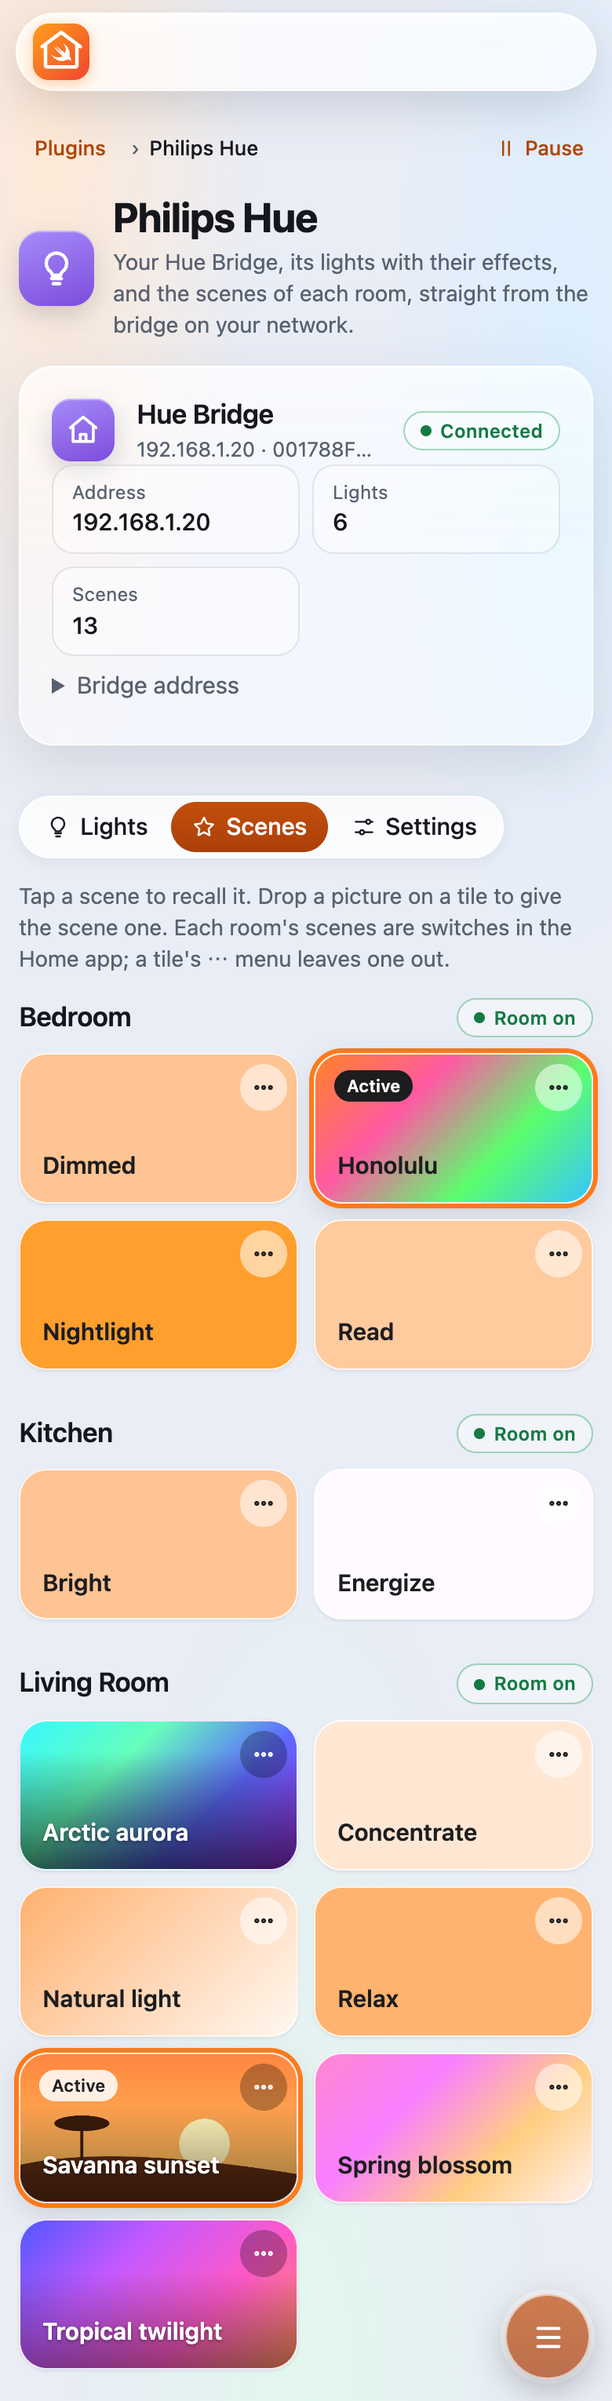
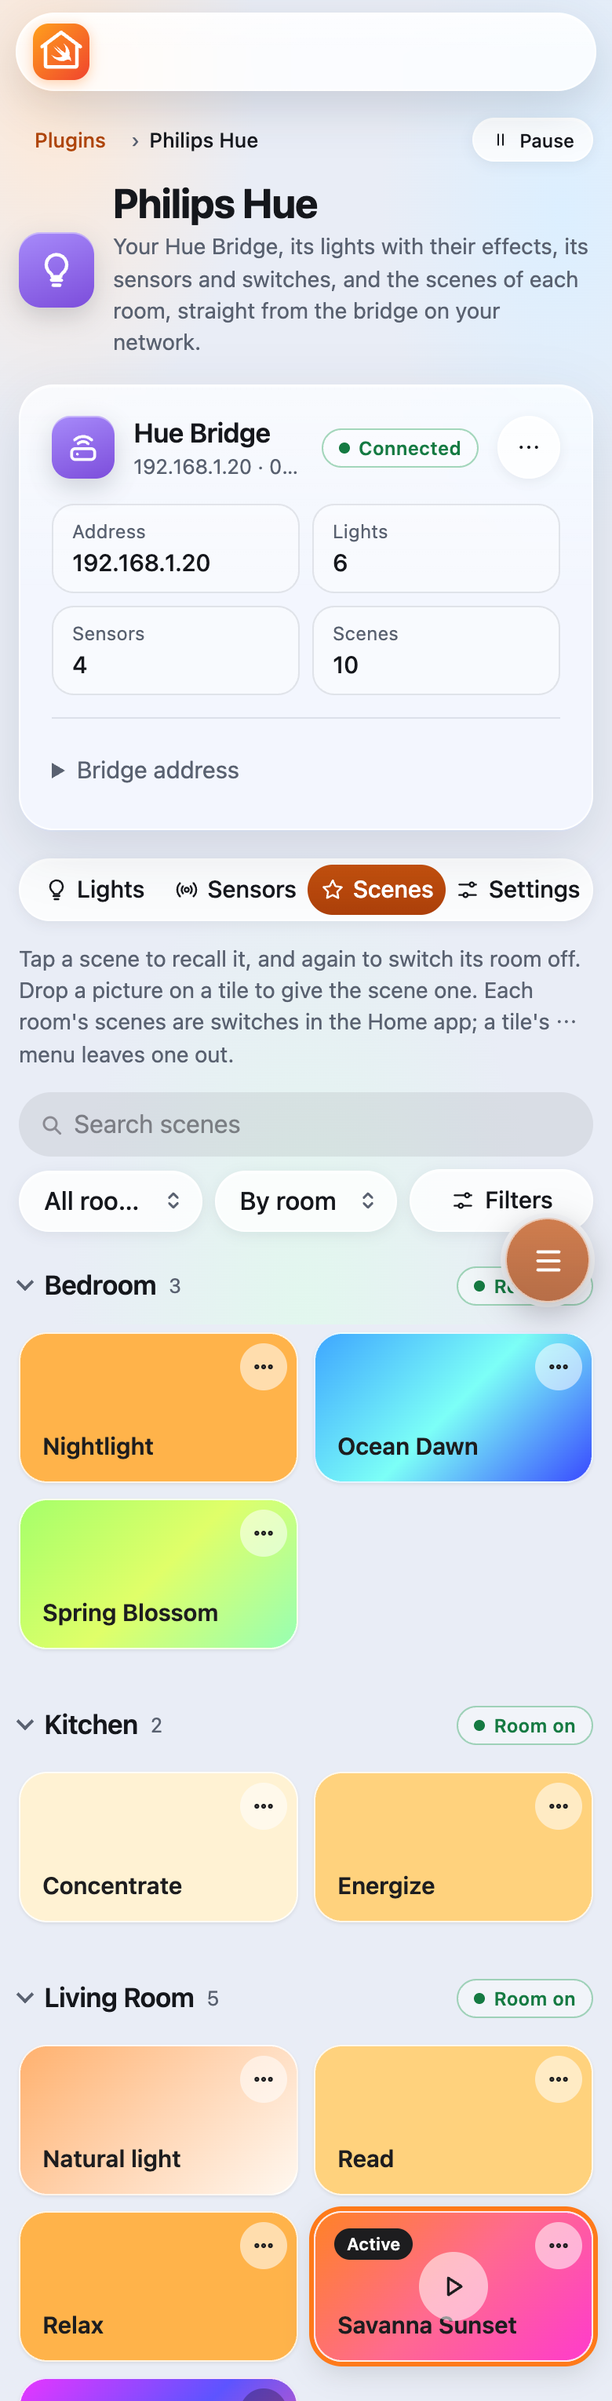
Plugin pages: screenshots from fake devices, sensors' toolbar and load race fixed
Scripts/plugin-screenshots.mjs retakes docs/images/plugins from a throwaway
bridge against a fake Hue Bridge and a fake DIRIGERA hub with demonstration
names: the Hue page's Lights, Sensors, Scenes and Settings tabs, its scenes on
a phone, and DIRIGERA's devices and scenes.

The Hue page reads its accessories again while one it lists is missing, so the
Sensors tab no longer stays empty when it opens before the bridge's first read,
and shows the sensors' toolbar; DIRIGERA's page reads again while it has fewer
accessories than groups. Both pages' descriptions name what they now show. On a
phone the plugin pages' tabs share the width, so four of them fit.

diff --git a/Plugins/PhilipsHue/Sources/WebFiles.swift b/Plugins/PhilipsHue/Sources/WebFiles.swift
@@ -102,10 +102,13 @@ h2 { margin: 0 0 10px; }
     sensorAccessories = all.filter((accessory) => accessory.id.startsWith("PhilipsHue:device:"));
   }
 
-  /// Reads the accessories again when the lights or sensors the Home app has changed.
+  /// Reads the accessories again when the lights or sensors the Home app has changed, or while fewer are published
+  /// than the bridge lists (the page opened before the plugin had added them all).
   async function loadIfChanged() {
-    const key = [...lights, ...sensors].filter((item) => !item.hidden).map((item) => item.id).sort().join(",");
-    if (key === shapeKey) return;
+    const shown = (list) => list.filter((item) => !item.hidden);
+    const key = [...shown(lights), ...shown(sensors)].map((item) => item.id).sort().join(",");
+    const missing = accessories.length < shown(lights).length || (status.sensorsOn !== false && sensorAccessories.length < shown(sensors).length);
+    if (key === shapeKey && !missing) return;
     shapeKey = key;
     await loadAccessories().catch(() => {});
   }
@@ -201,6 +204,7 @@ h2 { margin: 0 0 10px; }
     if (status.sensorsOn === false) return empty(t("Sensors and switches are off: turn them on in Settings."));
     await loadIfChanged();
     if (!sensorAccessories.length) return empty(t("The bridge has no sensors or switches yet: add them in the Hue app."));
+    sensorFinder.show(true);
     sensorFinder.draw(list, {
       countText: (shown, total) => t("{shown} of {total} sensors", { shown, total }),
       emptyText: t("No sensor matches the search and filters."), bodyClass: "wall",
@@ -549,7 +553,7 @@ HomeswiftI18n.add({
     "How often the bridge is asked for changes made in the Hue app or with a switch.": "La fréquence à laquelle le pont est interrogé sur les changements faits dans l'app Hue ou avec un interrupteur.",
     "Changes are kept once you save.": "Les modifications sont conservées une fois enregistrées.",
     "Saved. The plugin restarted with these settings.": "Enregistré. Le plugin a redémarré avec ces réglages.",
-    "Your Hue Bridge, its lights with their effects, and the scenes of each room, straight from the bridge on your network.": "Votre pont Hue, ses lampes et leurs effets, et les scènes de chaque pièce, directement depuis le pont sur votre réseau.",
+    "Your Hue Bridge, its lights with their effects, its sensors and switches, and the scenes of each room, straight from the bridge on your network.": "Votre pont Hue, ses lampes et leurs effets, ses capteurs et interrupteurs, et les scènes de chaque pièce, directement depuis le pont de votre réseau.",
     "Save Configuration": "Enregistrer la configuration",
     "an address is required": "une adresse est requise",
     "The link button was not pressed in time.": "Le bouton de liaison n'a pas été pressé à temps.",
@@ -641,7 +645,7 @@ HomeswiftI18n.add({
     "How often the bridge is asked for changes made in the Hue app or with a switch.": "Cada cuánto se pregunta al puente por los cambios hechos en la app Hue o con un interruptor.",
     "Changes are kept once you save.": "Los cambios se conservan al guardar.",
     "Saved. The plugin restarted with these settings.": "Guardado. El plugin se ha reiniciado con estos ajustes.",
-    "Your Hue Bridge, its lights with their effects, and the scenes of each room, straight from the bridge on your network.": "Tu puente Hue, sus luces con sus efectos y las escenas de cada habitación, directamente desde el puente en tu red.",
+    "Your Hue Bridge, its lights with their effects, its sensors and switches, and the scenes of each room, straight from the bridge on your network.": "Tu puente Hue, sus luces con sus efectos, sus sensores e interruptores, y las escenas de cada habitación, directamente desde el puente de tu red.",
     "Save Configuration": "Guardar configuración",
     "an address is required": "se necesita una dirección",
     "The link button was not pressed in time.": "No se ha pulsado el botón de enlace a tiempo.",
@@ -733,7 +737,7 @@ HomeswiftI18n.add({
     "How often the bridge is asked for changes made in the Hue app or with a switch.": "Com que frequência a ponte é consultada sobre as alterações feitas na app Hue ou com um interruptor.",
     "Changes are kept once you save.": "As alterações ficam guardadas quando guardar.",
     "Saved. The plugin restarted with these settings.": "Guardado. O plugin reiniciou com estas definições.",
-    "Your Hue Bridge, its lights with their effects, and the scenes of each room, straight from the bridge on your network.": "A ponte Hue, as luzes com os seus efeitos e as cenas de cada divisão, diretamente da ponte na sua rede.",
+    "Your Hue Bridge, its lights with their effects, its sensors and switches, and the scenes of each room, straight from the bridge on your network.": "A ponte Hue, as luzes com os seus efeitos, os sensores e interruptores, e as cenas de cada divisão, diretamente da ponte na sua rede.",
     "Save Configuration": "Guardar configuração",
     "an address is required": "é necessário um endereço",
     "The link button was not pressed in time.": "O botão de ligação não foi premido a tempo.",
@@ -771,7 +775,7 @@ HomeswiftI18n.add({
     <span class="tile large tone-violet" aria-hidden="true"><svg viewBox="0 0 24 24"><path d="M9 18h6M10 21h4"/><path d="M12 3a6 6 0 0 0-3.5 10.9c.6.5 1 1.2 1 2V16h5v-.1c0-.8.4-1.5 1-2A6 6 0 0 0 12 3z"/></svg></span>
     <div class="who">
       <h1>Philips Hue</h1>
-      <p class="muted" data-i18n>Your Hue Bridge, its lights with their effects, and the scenes of each room, straight from the bridge on your network.</p>
+      <p class="muted" data-i18n>Your Hue Bridge, its lights with their effects, its sensors and switches, and the scenes of each room, straight from the bridge on your network.</p>
     </div>
   </div>
 

diff --git a/Plugins/Dirigera/Sources/WebFiles.swift b/Plugins/Dirigera/Sources/WebFiles.swift
@@ -156,8 +156,11 @@ h2 { margin: 0 0 10px; }
     const paired = hubs.some((hub) => hub.paired);
     deviceFinder.show(paired && accessories.length > 0);
     if (!paired) return empty(t("Pair a hub to see its devices."));
-    const key = devices.filter((item) => !item.hidden).map((item) => item.group).sort().join(",");
-    if (key !== shapeKey) {
+    // Read again when the devices change, or while fewer accessories are published than the hub lists groups (the page
+    // opened before the plugin had added them all).
+    const groups = [...new Set(devices.filter((item) => !item.hidden).map((item) => item.group))];
+    const key = groups.sort().join(",");
+    if (key !== shapeKey || accessories.length < groups.length) {
       shapeKey = key;
       await loadAccessories().catch(() => {});
     }
@@ -365,7 +368,7 @@ HomeswiftI18n.add({
     "{n} devices": "{n} appareils",
     "{n} scene": "{n} scène",
     "{n} scenes": "{n} scènes",
-    "Your DIRIGERA hubs, their lights and outlets room by room, and their scenes, straight from the hub on your network.": "Vos hubs DIRIGERA, leurs lampes et prises pièce par pièce, et leurs scènes, directement depuis le hub sur votre réseau.",
+    "Your DIRIGERA hubs, their lights, sensors, blinds and remotes room by room, and their scenes, straight from the hub on your network.": "Vos hubs DIRIGERA, leurs lampes, capteurs, stores et télécommandes pièce par pièce, et leurs scènes, directement depuis le hub de votre réseau.",
     "Devices": "Appareils",
     "Save Configuration": "Enregistrer la configuration",
     "an address is required": "une adresse est requise",
@@ -414,7 +417,7 @@ HomeswiftI18n.add({
     "{n} devices": "{n} dispositivos",
     "{n} scene": "{n} escena",
     "{n} scenes": "{n} escenas",
-    "Your DIRIGERA hubs, their lights and outlets room by room, and their scenes, straight from the hub on your network.": "Tus hubs DIRIGERA, sus luces y enchufes habitación por habitación y sus escenas, directamente desde el hub en tu red.",
+    "Your DIRIGERA hubs, their lights, sensors, blinds and remotes room by room, and their scenes, straight from the hub on your network.": "Tus hubs DIRIGERA, sus luces, sensores, persianas y mandos habitación por habitación, y sus escenas, directamente desde el hub de tu red.",
     "Devices": "Dispositivos",
     "Save Configuration": "Guardar configuración",
     "an address is required": "se necesita una dirección",
@@ -463,7 +466,7 @@ HomeswiftI18n.add({
     "{n} devices": "{n} dispositivos",
     "{n} scene": "{n} cena",
     "{n} scenes": "{n} cenas",
-    "Your DIRIGERA hubs, their lights and outlets room by room, and their scenes, straight from the hub on your network.": "Os hubs DIRIGERA, as luzes e tomadas divisão a divisão e as cenas, diretamente do hub na sua rede.",
+    "Your DIRIGERA hubs, their lights, sensors, blinds and remotes room by room, and their scenes, straight from the hub on your network.": "Os hubs DIRIGERA, as luzes, sensores, estores e comandos divisão a divisão, e as cenas, diretamente do hub na sua rede.",
     "Devices": "Dispositivos",
     "Save Configuration": "Guardar configuração",
     "an address is required": "é necessário um endereço",
@@ -499,7 +502,7 @@ HomeswiftI18n.add({
     <span class="tile large tone-blue" aria-hidden="true"><svg viewBox="0 0 24 24"><path d="M9 18h6M10 21h4"/><path d="M12 3a6 6 0 0 0-3.5 10.9c.6.5 1 1.2 1 2V16h5v-.1c0-.8.4-1.5 1-2A6 6 0 0 0 12 3z"/></svg></span>
     <div class="who">
       <h1>IKEA DIRIGERA</h1>
-      <p class="muted" data-i18n>Your DIRIGERA hubs, their lights and outlets room by room, and their scenes, straight from the hub on your network.</p>
+      <p class="muted" data-i18n>Your DIRIGERA hubs, their lights, sensors, blinds and remotes room by room, and their scenes, straight from the hub on your network.</p>
     </div>
   </div>
 

diff --git a/Plugins/PhilipsHue/Web/i18n.js b/Plugins/PhilipsHue/Web/i18n.js
@@ -75,7 +75,7 @@ HomeswiftI18n.add({
     "How often the bridge is asked for changes made in the Hue app or with a switch.": "La fréquence à laquelle le pont est interrogé sur les changements faits dans l'app Hue ou avec un interrupteur.",
     "Changes are kept once you save.": "Les modifications sont conservées une fois enregistrées.",
     "Saved. The plugin restarted with these settings.": "Enregistré. Le plugin a redémarré avec ces réglages.",
-    "Your Hue Bridge, its lights with their effects, and the scenes of each room, straight from the bridge on your network.": "Votre pont Hue, ses lampes et leurs effets, et les scènes de chaque pièce, directement depuis le pont sur votre réseau.",
+    "Your Hue Bridge, its lights with their effects, its sensors and switches, and the scenes of each room, straight from the bridge on your network.": "Votre pont Hue, ses lampes et leurs effets, ses capteurs et interrupteurs, et les scènes de chaque pièce, directement depuis le pont de votre réseau.",
     "Save Configuration": "Enregistrer la configuration",
     "an address is required": "une adresse est requise",
     "The link button was not pressed in time.": "Le bouton de liaison n'a pas été pressé à temps.",
@@ -167,7 +167,7 @@ HomeswiftI18n.add({
     "How often the bridge is asked for changes made in the Hue app or with a switch.": "Cada cuánto se pregunta al puente por los cambios hechos en la app Hue o con un interruptor.",
     "Changes are kept once you save.": "Los cambios se conservan al guardar.",
     "Saved. The plugin restarted with these settings.": "Guardado. El plugin se ha reiniciado con estos ajustes.",
-    "Your Hue Bridge, its lights with their effects, and the scenes of each room, straight from the bridge on your network.": "Tu puente Hue, sus luces con sus efectos y las escenas de cada habitación, directamente desde el puente en tu red.",
+    "Your Hue Bridge, its lights with their effects, its sensors and switches, and the scenes of each room, straight from the bridge on your network.": "Tu puente Hue, sus luces con sus efectos, sus sensores e interruptores, y las escenas de cada habitación, directamente desde el puente de tu red.",
     "Save Configuration": "Guardar configuración",
     "an address is required": "se necesita una dirección",
     "The link button was not pressed in time.": "No se ha pulsado el botón de enlace a tiempo.",
@@ -259,7 +259,7 @@ HomeswiftI18n.add({
     "How often the bridge is asked for changes made in the Hue app or with a switch.": "Com que frequência a ponte é consultada sobre as alterações feitas na app Hue ou com um interruptor.",
     "Changes are kept once you save.": "As alterações ficam guardadas quando guardar.",
     "Saved. The plugin restarted with these settings.": "Guardado. O plugin reiniciou com estas definições.",
-    "Your Hue Bridge, its lights with their effects, and the scenes of each room, straight from the bridge on your network.": "A ponte Hue, as luzes com os seus efeitos e as cenas de cada divisão, diretamente da ponte na sua rede.",
+    "Your Hue Bridge, its lights with their effects, its sensors and switches, and the scenes of each room, straight from the bridge on your network.": "A ponte Hue, as luzes com os seus efeitos, os sensores e interruptores, e as cenas de cada divisão, diretamente da ponte na sua rede.",
     "Save Configuration": "Guardar configuração",
     "an address is required": "é necessário um endereço",
     "The link button was not pressed in time.": "O botão de ligação não foi premido a tempo.",

diff --git a/Plugins/Dirigera/Web/i18n.js b/Plugins/Dirigera/Web/i18n.js
@@ -34,7 +34,7 @@ HomeswiftI18n.add({
     "{n} devices": "{n} appareils",
     "{n} scene": "{n} scène",
     "{n} scenes": "{n} scènes",
-    "Your DIRIGERA hubs, their lights and outlets room by room, and their scenes, straight from the hub on your network.": "Vos hubs DIRIGERA, leurs lampes et prises pièce par pièce, et leurs scènes, directement depuis le hub sur votre réseau.",
+    "Your DIRIGERA hubs, their lights, sensors, blinds and remotes room by room, and their scenes, straight from the hub on your network.": "Vos hubs DIRIGERA, leurs lampes, capteurs, stores et télécommandes pièce par pièce, et leurs scènes, directement depuis le hub de votre réseau.",
     "Devices": "Appareils",
     "Save Configuration": "Enregistrer la configuration",
     "an address is required": "une adresse est requise",
@@ -83,7 +83,7 @@ HomeswiftI18n.add({
     "{n} devices": "{n} dispositivos",
     "{n} scene": "{n} escena",
     "{n} scenes": "{n} escenas",
-    "Your DIRIGERA hubs, their lights and outlets room by room, and their scenes, straight from the hub on your network.": "Tus hubs DIRIGERA, sus luces y enchufes habitación por habitación y sus escenas, directamente desde el hub en tu red.",
+    "Your DIRIGERA hubs, their lights, sensors, blinds and remotes room by room, and their scenes, straight from the hub on your network.": "Tus hubs DIRIGERA, sus luces, sensores, persianas y mandos habitación por habitación, y sus escenas, directamente desde el hub de tu red.",
     "Devices": "Dispositivos",
     "Save Configuration": "Guardar configuración",
     "an address is required": "se necesita una dirección",
@@ -132,7 +132,7 @@ HomeswiftI18n.add({
     "{n} devices": "{n} dispositivos",
     "{n} scene": "{n} cena",
     "{n} scenes": "{n} cenas",
-    "Your DIRIGERA hubs, their lights and outlets room by room, and their scenes, straight from the hub on your network.": "Os hubs DIRIGERA, as luzes e tomadas divisão a divisão e as cenas, diretamente do hub na sua rede.",
+    "Your DIRIGERA hubs, their lights, sensors, blinds and remotes room by room, and their scenes, straight from the hub on your network.": "Os hubs DIRIGERA, as luzes, sensores, estores e comandos divisão a divisão, e as cenas, diretamente do hub na sua rede.",
     "Devices": "Dispositivos",
     "Save Configuration": "Guardar configuração",
     "an address is required": "é necessário um endereço",

diff --git a/Plugins/PhilipsHue/Web/app.js b/Plugins/PhilipsHue/Web/app.js
@@ -60,10 +60,13 @@
     sensorAccessories = all.filter((accessory) => accessory.id.startsWith("PhilipsHue:device:"));
   }
 
-  /// Reads the accessories again when the lights or sensors the Home app has changed.
+  /// Reads the accessories again when the lights or sensors the Home app has changed, or while fewer are published
+  /// than the bridge lists (the page opened before the plugin had added them all).
   async function loadIfChanged() {
-    const key = [...lights, ...sensors].filter((item) => !item.hidden).map((item) => item.id).sort().join(",");
-    if (key === shapeKey) return;
+    const shown = (list) => list.filter((item) => !item.hidden);
+    const key = [...shown(lights), ...shown(sensors)].map((item) => item.id).sort().join(",");
+    const missing = accessories.length < shown(lights).length || (status.sensorsOn !== false && sensorAccessories.length < shown(sensors).length);
+    if (key === shapeKey && !missing) return;
     shapeKey = key;
     await loadAccessories().catch(() => {});
   }
@@ -159,6 +162,7 @@
     if (status.sensorsOn === false) return empty(t("Sensors and switches are off: turn them on in Settings."));
     await loadIfChanged();
     if (!sensorAccessories.length) return empty(t("The bridge has no sensors or switches yet: add them in the Hue app."));
+    sensorFinder.show(true);
     sensorFinder.draw(list, {
       countText: (shown, total) => t("{shown} of {total} sensors", { shown, total }),
       emptyText: t("No sensor matches the search and filters."), bodyClass: "wall",

diff --git a/Sources/HomeswiftUI/WebAssets.swift b/Sources/HomeswiftUI/WebAssets.swift
@@ -21281,6 +21281,11 @@ select option:disabled { color: var(--muted); }
    its address, scene tiles painted with their palette or a picture, the transition's speed scale and the save bar.
    plugin.js has their pieces (tabs, bridgePairing, scenePictures, textStyle, speedScale). */
 .main-tabs { margin: 18px 0 14px; }
+/* On a phone the tabs share the width, so four of them fit; a long name ends in an ellipsis. */
+@media (max-width: 600px) {
+  .main-tabs { display: flex; width: 100%; }
+  .main-tabs > button { flex: 1 1 0; min-width: 0; padding: 5px 6px; justify-content: center; gap: 5px; overflow: hidden; text-overflow: ellipsis; }
+}
 .tab-pane { animation: fade var(--normal) var(--ease-out); }
 
 /* The bridge card: a block per bridge (a line between two), its facts once paired, then the address form. */

diff --git a/Sources/HomeswiftUI/Web/style.css b/Sources/HomeswiftUI/Web/style.css
@@ -3071,6 +3071,11 @@ select option:disabled { color: var(--muted); }
    its address, scene tiles painted with their palette or a picture, the transition's speed scale and the save bar.
    plugin.js has their pieces (tabs, bridgePairing, scenePictures, textStyle, speedScale). */
 .main-tabs { margin: 18px 0 14px; }
+/* On a phone the tabs share the width, so four of them fit; a long name ends in an ellipsis. */
+@media (max-width: 600px) {
+  .main-tabs { display: flex; width: 100%; }
+  .main-tabs > button { flex: 1 1 0; min-width: 0; padding: 5px 6px; justify-content: center; gap: 5px; overflow: hidden; text-overflow: ellipsis; }
+}
 .tab-pane { animation: fade var(--normal) var(--ease-out); }
 
 /* The bridge card: a block per bridge (a line between two), its facts once paired, then the address form. */

diff --git a/Plugins/Dirigera/Web/app.js b/Plugins/Dirigera/Web/app.js
@@ -120,8 +120,11 @@
     const paired = hubs.some((hub) => hub.paired);
     deviceFinder.show(paired && accessories.length > 0);
     if (!paired) return empty(t("Pair a hub to see its devices."));
-    const key = devices.filter((item) => !item.hidden).map((item) => item.group).sort().join(",");
-    if (key !== shapeKey) {
+    // Read again when the devices change, or while fewer accessories are published than the hub lists groups (the page
+    // opened before the plugin had added them all).
+    const groups = [...new Set(devices.filter((item) => !item.hidden).map((item) => item.group))];
+    const key = groups.sort().join(",");
+    if (key !== shapeKey || accessories.length < groups.length) {
       shapeKey = key;
       await loadAccessories().catch(() => {});
     }

diff --git a/Plugins/PhilipsHue/Web/index.html b/Plugins/PhilipsHue/Web/index.html
@@ -15,7 +15,7 @@
     <span class="tile large tone-violet" aria-hidden="true"><svg viewBox="0 0 24 24"><path d="M9 18h6M10 21h4"/><path d="M12 3a6 6 0 0 0-3.5 10.9c.6.5 1 1.2 1 2V16h5v-.1c0-.8.4-1.5 1-2A6 6 0 0 0 12 3z"/></svg></span>
     <div class="who">
       <h1>Philips Hue</h1>
-      <p class="muted" data-i18n>Your Hue Bridge, its lights with their effects, and the scenes of each room, straight from the bridge on your network.</p>
+      <p class="muted" data-i18n>Your Hue Bridge, its lights with their effects, its sensors and switches, and the scenes of each room, straight from the bridge on your network.</p>
     </div>
   </div>
 

diff --git a/Plugins/Dirigera/Web/index.html b/Plugins/Dirigera/Web/index.html
@@ -15,7 +15,7 @@
     <span class="tile large tone-blue" aria-hidden="true"><svg viewBox="0 0 24 24"><path d="M9 18h6M10 21h4"/><path d="M12 3a6 6 0 0 0-3.5 10.9c.6.5 1 1.2 1 2V16h5v-.1c0-.8.4-1.5 1-2A6 6 0 0 0 12 3z"/></svg></span>
     <div class="who">
       <h1>IKEA DIRIGERA</h1>
-      <p class="muted" data-i18n>Your DIRIGERA hubs, their lights and outlets room by room, and their scenes, straight from the hub on your network.</p>
+      <p class="muted" data-i18n>Your DIRIGERA hubs, their lights, sensors, blinds and remotes room by room, and their scenes, straight from the hub on your network.</p>
     </div>
   </div>
 

diff --git a/CLAUDE.md b/CLAUDE.md
@@ -25,6 +25,7 @@ Library `Homeswift`, plugin API and runtime `HomeswiftPlugin`, the `homeswift` b
 | `Scripts/embed-assets.swift` | Embeds a plugin's `config.schema.json`, a `Web/` directory or the Assistant's `Prompts/` into Swift source; tests fail when the generated files are stale |
 | `Scripts/docs-screenshots.mjs` | Retakes the docs' web UI screenshots from a throwaway bridge with headless Chrome (docs/widgets.md, "Screenshots") |
 | `Scripts/ui-screenshots.mjs` | Retakes docs/ui.md's page screenshots (`docs/images/ui`) from a throwaway bridge of paused demonstration blocks, made and removed by the script (docs/ui.md, "Screenshots") |
+| `Scripts/plugin-screenshots.mjs` | Retakes the Philips Hue and IKEA DIRIGERA pages' screenshots (`docs/images/plugins`) from a throwaway bridge against a fake Hue Bridge and a fake DIRIGERA hub with demonstration names |
 | `Scripts/site-languages.mjs` | Writes `site/fr/`, `es/` and `pt/index.html` from `site/index.html` (its `data-i18n` and `data-i18n-html` text) and the site's catalogs; fails on a missing translation, `--check` on a stale page |
 | `Scripts/new-plugin.swift` | Creates `Plugins/<Name>/` (a skeleton on a fake API that builds and passes its tests; `--service` picks the HAP services and characteristics from `Definitions.swift`, `--list` shows them), its targets in `Package.swift` and its registration in `Plugins.swift` |
 | `CONTRIBUTING.md`, `.github/` | How to propose a plugin and what it needs (the checklist), the plugin proposal issue form, the pull request template, `CODEOWNERS` |

diff --git a/Plugins/PhilipsHue/README.md b/Plugins/PhilipsHue/README.md
@@ -88,6 +88,8 @@ A press reaches the Home app as the bridge reports it, on its event stream, so a
 automation there. A Tap dial's ring (`relative_rotary`) has no HomeKit counterpart and is left out. A device that also
 has a light is the light's accessory. The accessory ids are `PhilipsHue:device:<device id>`.
 
+![Sensors and switches on the plugin's page](../../docs/images/plugins/hue-sensors.png)
+
 ### Effects, Flash and gradients
 
 An effect switch plays the effect on the bulb itself (`effects_v2`, or `effects` on older bulbs), so it flickers and
